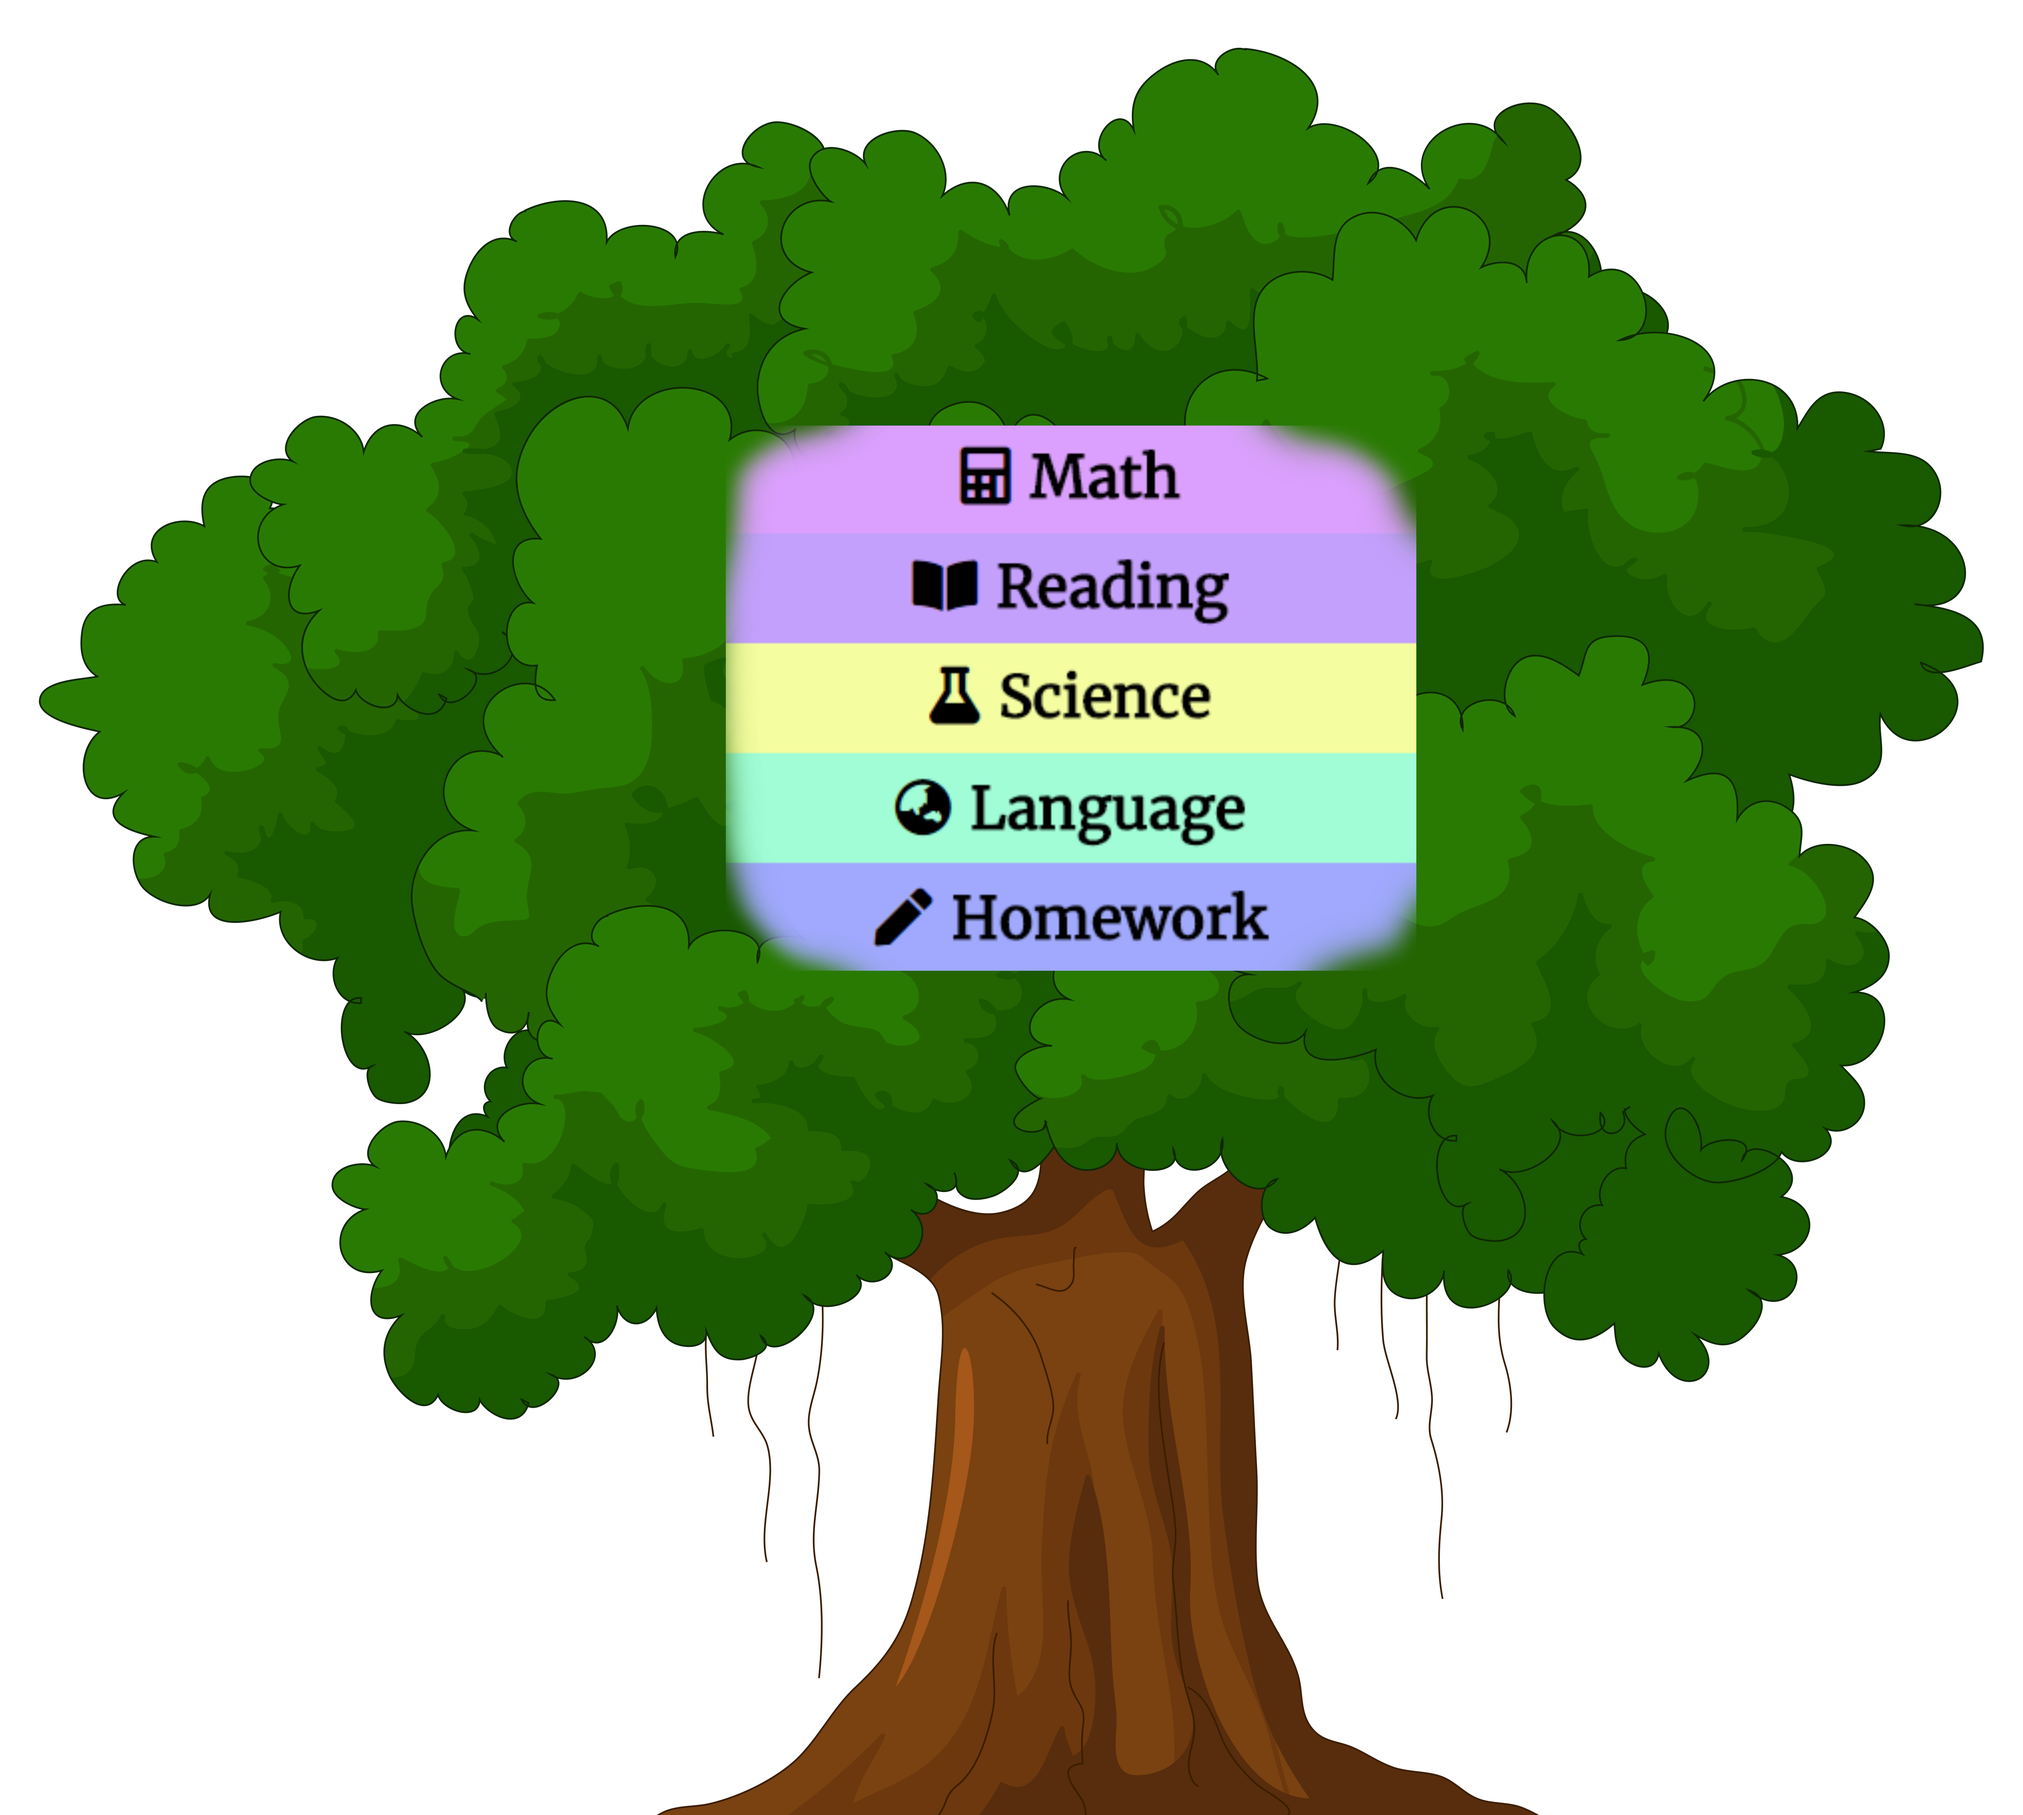
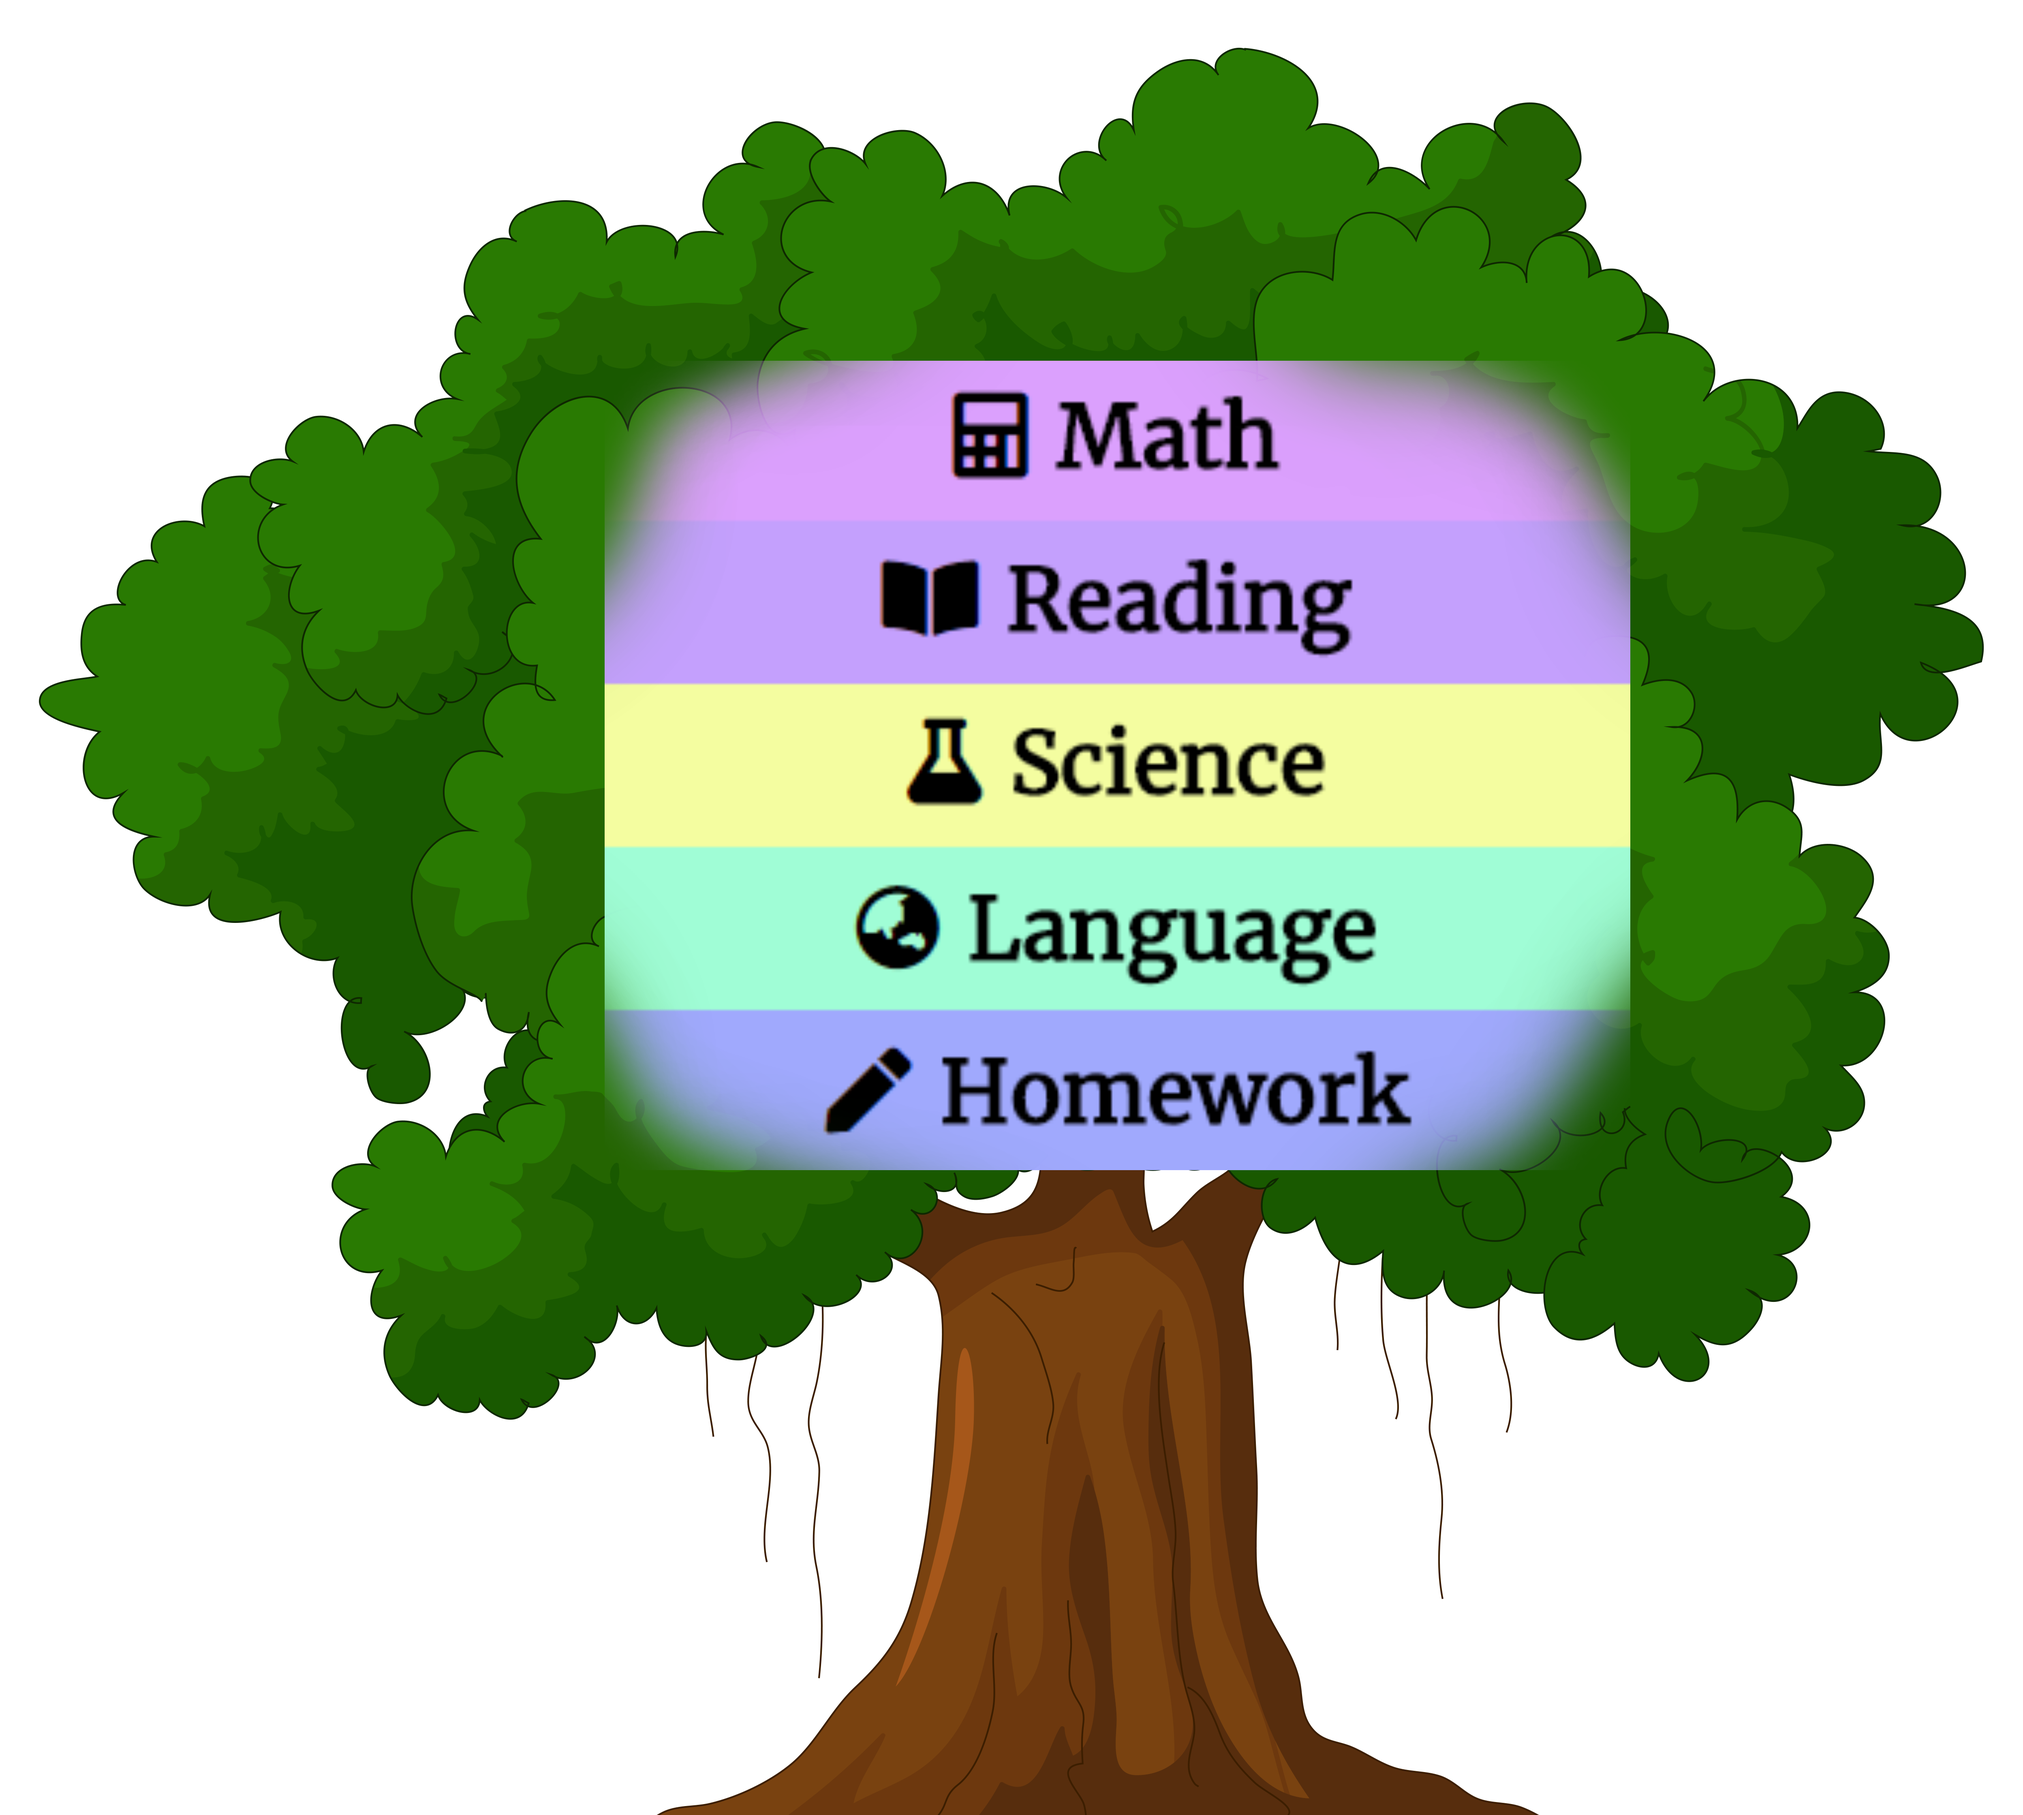
A huge update

Changed region(s): [[0.2812, 0.1862, 0.8125, 0.6519]]

diff --git a/index.html b/index.html
@@ -17,7 +17,7 @@
             <a class="nav home" href="#welcome">Home</a>
             <a class="nav programs" href="#programs">Programs</a>
             <a class="nav parents" href="#parents">Parents</a>
-            <a class="nav" href="#contactus">Contact Us</a>
+            <a class="nav contact" href="#contactus">Contact Us</a>
             <a class="nav" href="">Blog</a>
         </div>
     </div>
@@ -25,16 +25,13 @@
     <main id="home_id" class= "home">
         <h1></h1>
         <div id = "header_id">   
-            <img src="tree.png" alt="">
-            
-            
+            <img src="tree.png" alt="" style="max-width:35vw;">
             <ul class = "home bubble">
-                <h2>Maximize your child's potential</h2>
-                <li class = "hList">Programs for ages 2-18</li>
-                <li class = "hList">One-on-one tutoring</li>
-                <li class = "hList">ACT/SAT Test Prep</li>
-            </ul>
-            <div class="slideshow">
+                <h2>Excellence Beyond the Classroom</h2>
+            <div class="list">
+                <h3>- Programs for ages 2 to 18 -</h3>
+                <h3>- One-on-one tutoring -</h3>
+                <h3>- ACT/SAT Test Prep -</h3>
             </div>
         </div>
 
@@ -69,21 +66,22 @@
                 <div class ="learnMore">
                     <h3><i class="far fa-caret-square-down"></i>Proven Results</h3>
                 </div>
-                <p class="learnMore_drop">
+                <p class="home learnMore_drop">
                     On the September, 2016 ACT Exam, our students' scores improved from: 
                     <br> <br>
-                    Jack 26-33 <br>
-                    Wyatt 25 - 32 <br> 
-                    Sakshi 24 - 32 <br>
-                    Kimberly 20 - 27 <br>
-                    Jacob 22-30 <br> 
-                    Cameron 32-35 <br> 
-                    Simran 28-32-36 <br> 
-                    James 28-33 <br> 
-                    Victoria 21-27 <br>
-                    <br> 
-                    Nathan R: “I went to Bright Minds with a score of 24. After their help and instruction my score went up to 33. Bright Minds instructors really helped me score higher. I received $25,000 scholarship at OSU Bio Medical Honors Program, my 1st choice college.”
+                    Jack 26 to 33 <br>
+                    Wyatt 25 to 32 <br> 
+                    Sakshi 24 to 32 <br>
+                    Kimberly 20 to 27 <br>
+                    Jacob 22 to 30 <br> 
+                    Cameron 32 to 35 <br> 
+                    Simran 28 to 32 - 36 <br> 
+                    James 28 to 33 <br> 
+                    Victoria 21 to 27 <br>
+                    <br>
                 </p>
+                <div class="quote">I went to Bright Minds with a score of 24. After their help and instruction, my score went up to 33. Bright Minds instructors really helped me score higher. I received $25,000 scholarship at OSU Bio Medical Honors Program, my 1st choice college.<br>
+                    — <em>Nathan R</em></div>
 
             </div>  
         </div>
@@ -95,16 +93,9 @@
                     Help your child get ahead! From number sense, all the way to high school level Algebra and Geometry, our math program is designed to 
                     achieve mastery of computational skills leading to success in upper-level courses.
                 </p>
-                <div class ="learnMore">
-                    <i class="far fa-caret-square-down"></i> Learn more 
-                </div>
-                <p class="learnMore_drop">
-                    Our individualized pacing benefits children of all ages and abilities. Each concept is practiced until mastery. Through daily practice, 
-                    students advance in small manageable increments while developing better study skills and improving their confidence and concentration.
-                </p>
             </div>
             <div class="slideshow">
-                <img class="slides" src="math.jpg" alt="">
+                <img src="mathTree.png" alt="" style="max-width:33vw;margin-left: 0vw;padding:0vw;">
             </div>
         </div>
 
@@ -156,8 +147,24 @@
                     <li>Praise their children for their daily efforts</li>
                 </ul>
             </div>
-            <img class = "slides" src="child-bg.jpg" alt="">
+            <img class = "slides" src="art-bg.jpg" alt="">
         </div>
+    </main>
+
+    <main id="contact_id" class="contact">
+        <div class="section">
+            <h1 class = "contact">Contact Us</h1>
+        </div>
+        <div class="section">
+            <ul>
+                <h3><i class="fas fa-phone"></i>1-330-966-7226</h3>
+                <h3><i class="fas fa-map-marker-alt"></i>4900 Frank Rd. NW, <br>North Canton, OH 44720</h3>
+                <h3><i class="far fa-envelope"></i>brightmind111@gmail.com</h3>
+                <img src="building.png" alt="" class="slides">
+            </ul>
+            <img src="map.png" alt="">
+        </div>
+        
     </main>
 </body>
 

diff --git a/index.css b/index.css
@@ -69,12 +69,22 @@ body {
     display: flex;
     flex-direction: row;
     align-items: center;
-    justify-content: space-between;
+    justify-content: center;
     flex-wrap: wrap;
     max-width: 150vw;
     width: 92.9vw;
-    padding: 0vw;
+    padding: 2vw;
     margin-bottom: 6vw;
+    
+    border-radius: .5vw;
+}
+
+#home_id {
+    background: url(child-bg.jpg);
+    background-size: cover;
+    background-attachment: fixed;
+    background-repeat: no-repeat;
+    
 }
 
 .hList {
@@ -85,8 +95,8 @@ body {
     font-weight: bold;
 }
 .home {
-    background-color: rgb(255, 255, 255,1);
-    color:rgb(0, 0, 0);
+    
+    color:#1a1a1a;
     list-style-type: none;
 }
 
@@ -100,6 +110,11 @@ body {
     color: rgb(132, 31, 190);
 }
 
+.contact {
+    background-color: rgb(224, 255, 199);
+    color: rgb(46, 151, 25);
+}
+
 .section {
     display: flex;
     flex-direction: row;
@@ -108,7 +123,8 @@ body {
     flex-wrap: wrap;
     max-width: 150vw;
     width: 92.9vw;
-    margin: 0vw;padding: 0vw;  
+    padding: 0vw;
+    margin-bottom: 3vw;  
 }
 
 .bubble {
@@ -116,6 +132,18 @@ body {
     padding: 1vw;
     border-radius: .8vw;
     max-width:55vw;
+}
+
+.quote {
+    margin: 0vw;
+    padding: 0 0 0 4vw;
+    background: url(quote.png) no-repeat 0 3px;
+    background-size: 6%;
+    font-style: italic;
+    font-size: 1.2vw;
+    color: #777;
+    min-height: 32px;
+    line-height: 3vw;
 }
 
 .slideshow {
@@ -127,18 +155,30 @@ body {
     opacity: .99;
 }
 
+.list {
+    display: flex;
+    flex-direction: column;
+    align-items: center;
+    justify-content: center;
+    max-width: 90%;
+    opacity: .99;
+    margin-top: 2vw;
+}
+
 .slides {
     border-radius: .5vw;
-    max-height: 20vw;
+    max-width: 30vw;
     margin: 1vw;
 }
 
-img {
-    max-width: 35vw;
-}
 
 ul {
     
+}
+
+.gm {
+    top: 0px; 
+    height: 500px;
 }
 
 h1 {
@@ -155,17 +195,20 @@ h1 {
 }
 
 h2 {
-    font-size: 2.8vw;
+    font-size: 3.2vw;
     padding: 0vw;
+    margin:0vw;
 }
 
 h3 {
     font-size: 2vw;
-    padding: 0vw; margin: 0vw;
+    padding: 0vw;
+    margin-top: 2vw;
+    margin-bottom: 2vw;
 }
 
 i {
-    padding-right: .5vw;
+    padding-right: 1vw;
 }
 
 li {
@@ -177,7 +220,7 @@ li {
 p {
     font-size: 1.5vw;
     padding: .25vw;
-    line-height: 1.75;
+    line-height: 1.9;
     max-width: 90%;
 }
 
@@ -187,13 +230,12 @@ span {
 }
 
 main {
-    background-color:rgba(146, 250, 255, 0.75);
+    
     padding-left: 3vw;
     padding-right: 3vw;
 }
 
 .learnMore {
-    font-size: 1.5vw;
     padding: 0vw; margin: 0vw;
 
     -webkit-touch-callout: none;
@@ -225,11 +267,12 @@ main {
 .learnMore_drop.in {
     visibility: visible;
     max-height:1000px;
-    background-color: rgba(241, 241, 241, 0.975);
     border-radius: .8vw;
-    padding: .75vw;
+    padding: 1vw;
+    margin: 1vw;
     animation: sweep .5s ease-in-out;
-    font-size: 1.1rem;
+    font-size: 1.2rem;
+    line-height: 2vw;
 }
 
 

diff --git a/index.js b/index.js
@@ -39,4 +39,8 @@ class App {
         this.dropDown();
     }
 }
-const app = new App() 
+
+
+
+const app = new App()
+
